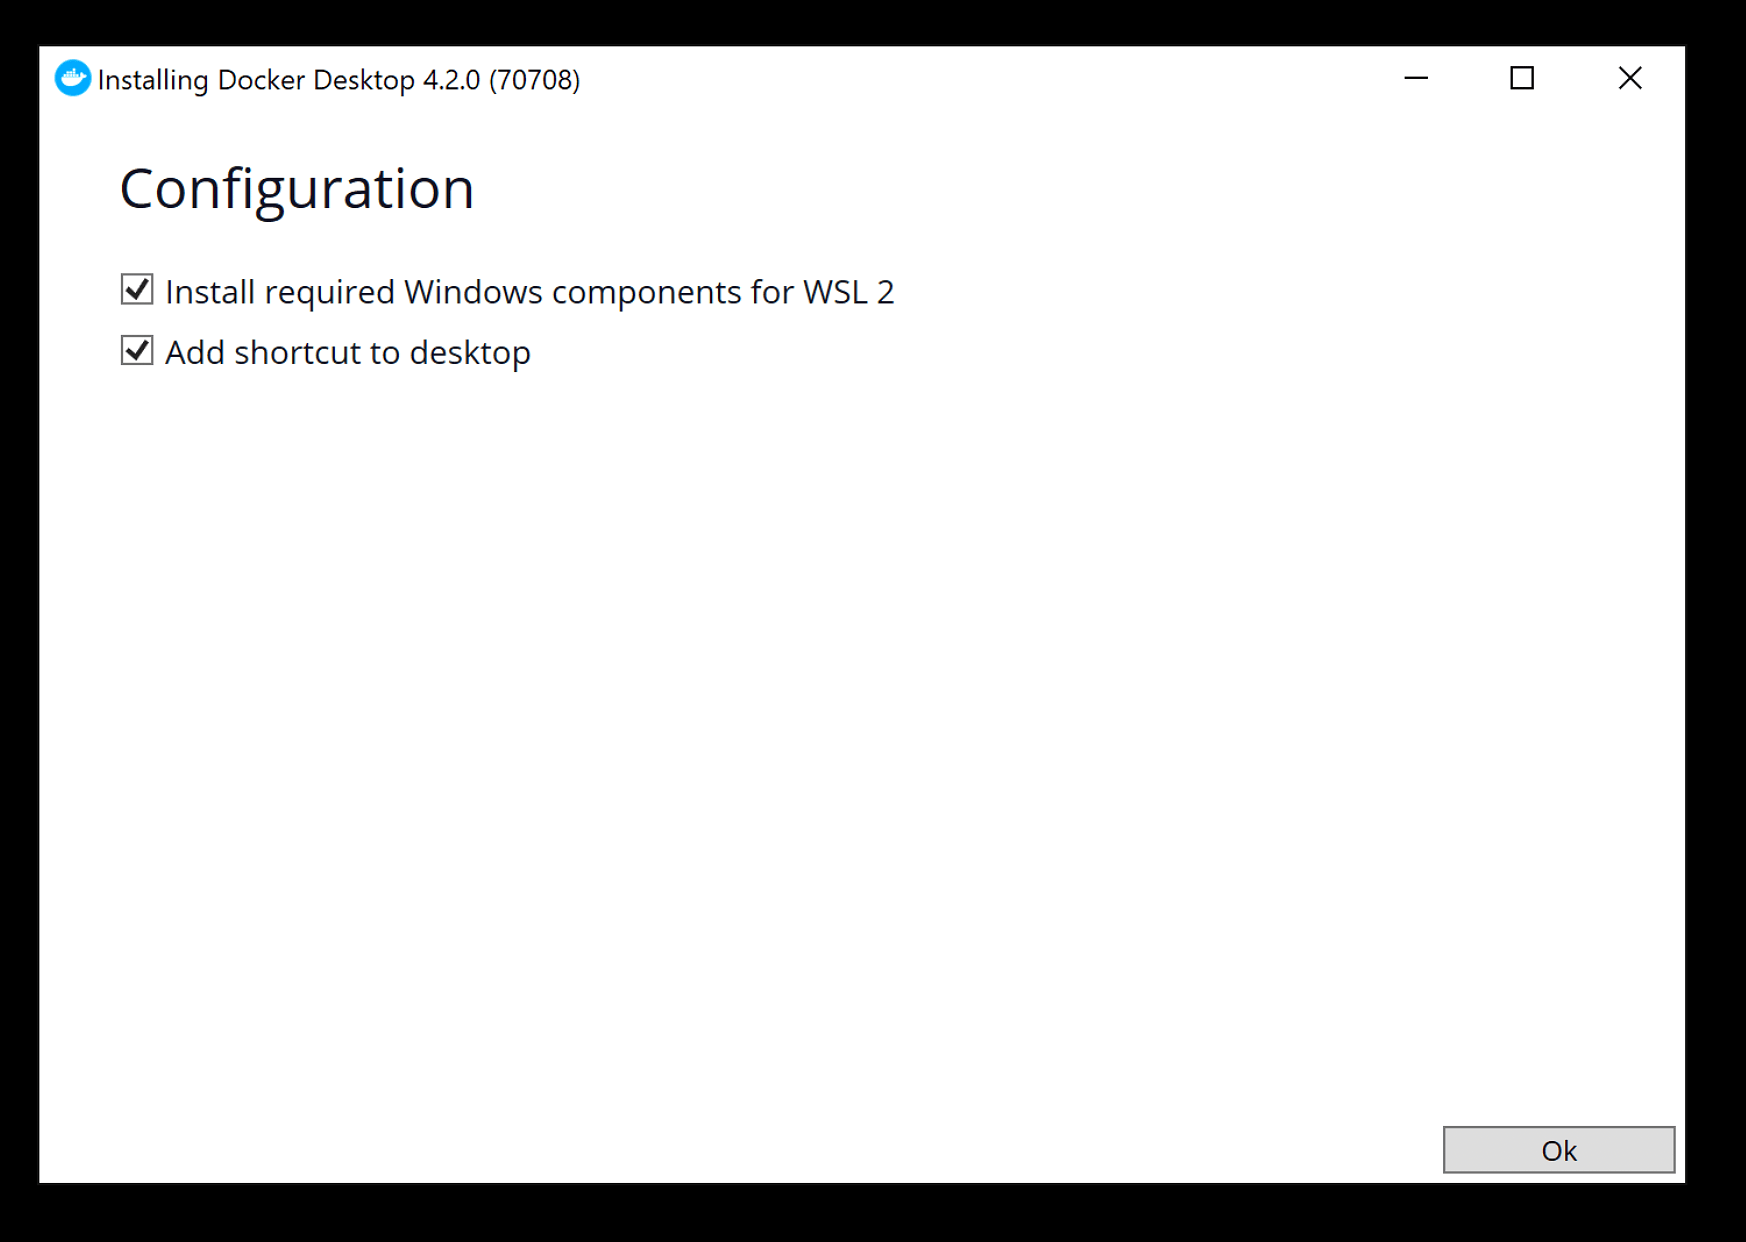
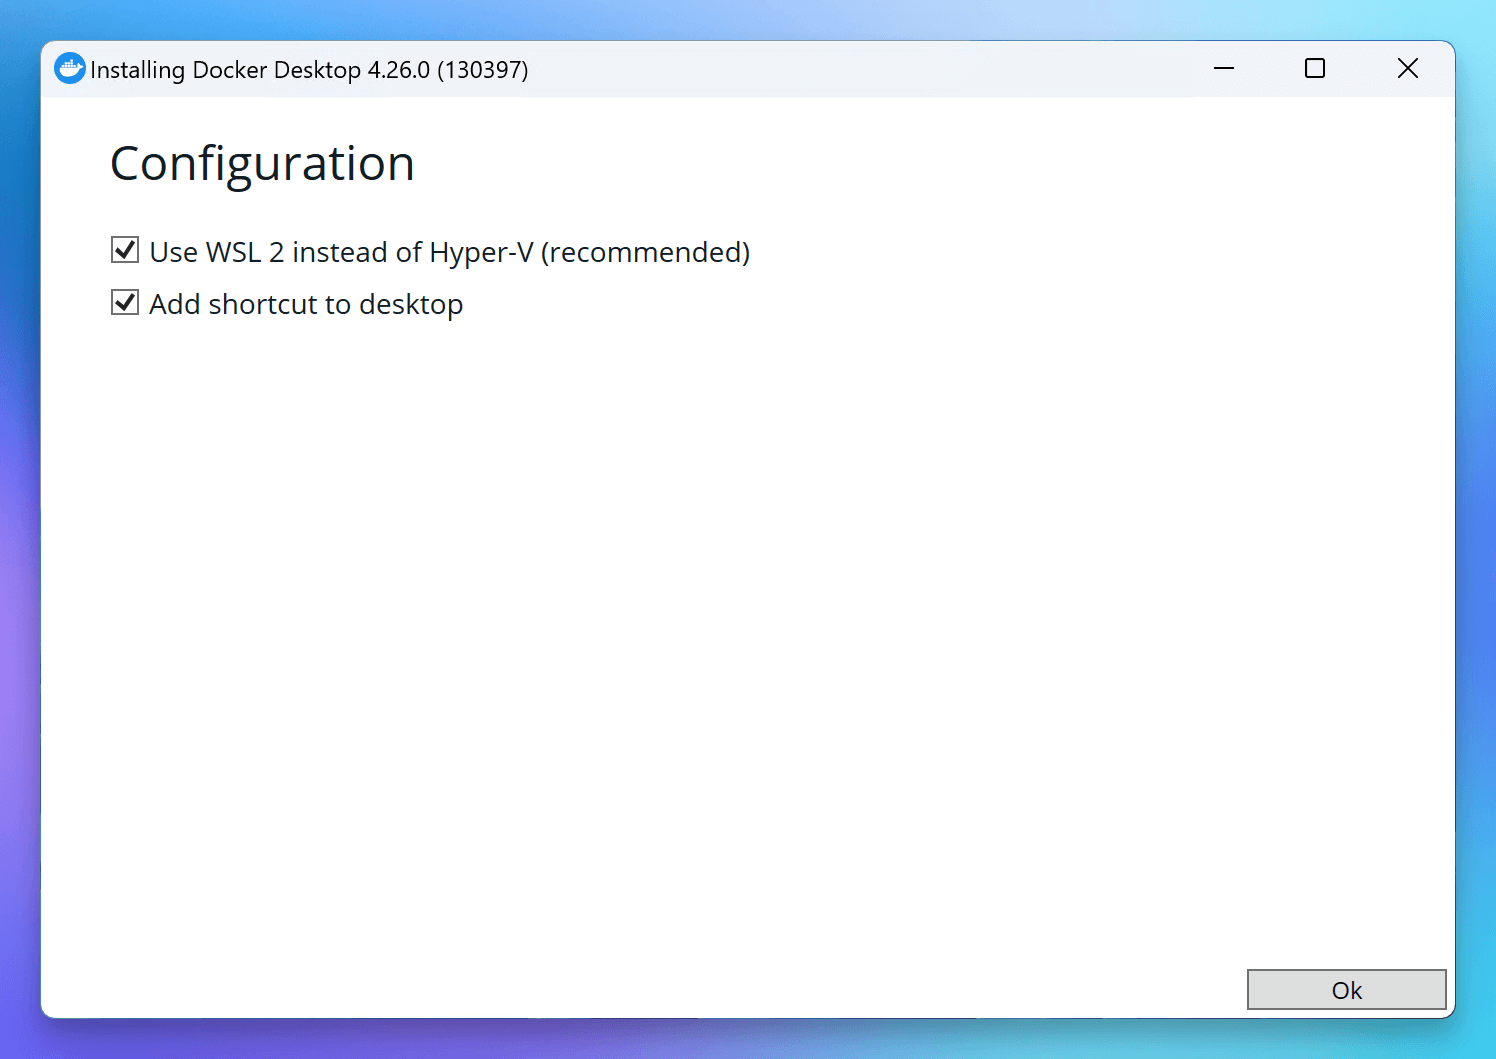
Updated Windows documentation

Changed region(s): [[0.0, 0.0, 1.0, 1.0], [0.0615, 0.2181, 0.5227, 0.3116], [0.0615, 0.1246, 0.2767, 0.187]]

diff --git a/docs/content/docs/2.installation/2.install-windows.md b/docs/content/docs/2.installation/2.install-windows.md
@@ -10,46 +10,47 @@ layout: docs
 ::
 
 ## Pre-requisites
-Windows requires a "subsystem Linux" distribution which takes some configuring on a brand new machine. Once configured, Linux will be running as a virtual machine on your Windows computer, allowing you to run Docker.
+Windows requires a "Linux Subsystem" to run Docker. We will break this into two parts:
 
-You'll need the following services configured on your Windows machine:
-* Windows Subsystem Linux
-* Docker Desktop
+1. Install Windows Subsystem Linux (v2)
+2. Install Docker Desktop
 
-## Prepare your Windows Machine
+#### Optional software
+You may want to consider installing this software to improve your development experience (this is what we use).
+* [Windows Terminal](https://docs.microsoft.com/en-us/windows/terminal/install) - This is a great terminal application that will give you tab support for your CLIs.
 
-### Install The Kernel Update
-
-To prevent errors with Docker Desktop, be sure to have the latest Linux Kernel update installed. [Refer to the documentation for download →](https://docs.microsoft.com/en-us/windows/wsl/install-manual#step-4---download-the-linux-kernel-update-package)
-
-If you do not install this update, you will see this error on launch of Docker Desktop.
-
-![WSL 2 Installation Warning](/images/docs/windows/wsl-incomplete.png)
-
-### Install Windows Subsystem Linux (WSL)
-
-::note
-The Official documentation for installing WSL can be found here: [https://docs.microsoft.com/en-us/windows/wsl/install](https://docs.microsoft.com/en-us/windows/wsl/install)
-::
-
-We prefer Ubuntu as our distribution. So if you're happy with that recommendation, run this command in PowerShell as administrator to install WSL.
-
-
-::note
-Make sure to right click on the PowerShell icon and click <b>Run as Administrator.</b>
-::
+## Install Windows Subsystem Linux (WSL)
+We can follow the principles discussed in the [official WSL2 documentation](https://docs.microsoft.com/en-us/windows/wsl/install) and prepare our machine to run "Windows Subsystem Linux v2" (WSL2). We prefer Ubuntu as our distribution. So if you're happy with that recommendation, run this command in PowerShell as administrator to install WSL2.
 
 ::code-panel
 ---
 label: Install and use Ubuntu as your Windows Subsystem Linux distro
 ---
 ```bash
-# Add this to `~/.zshrc` or `~/.bash_profile`
-export PATH="$HOME/.spin/bin:$PATH"
+wsl --install -d ubuntu
 ```
 ::
 
+::note
+A restart may be required.
+::
+
 ![WSL Install Command](/images/docs/windows/wsl-install.png)
+
+After a reboot, you may be prompted to create a username and password for your new Ubuntu installation. This is a separate user from your Windows user.
+
+![WSL Create Username and Password](/images/docs/windows/wsl-configure.png)
+
+Once configured, you can confirm is working by opening a new PowerShell window and running:
+
+::code-panel
+---
+label: Enter the Ubuntu shell
+---
+```bash
+wsl
+```
+::
 
 ## Install Docker Desktop
 
@@ -61,17 +62,25 @@ If prompted, leave the default options checked.
 
 ![Docker Configuration](/images/docs/windows/docker-desktop-configuration.png)
 
+::note
+Another restart may be required.
+::
+
+After the installation completes, you may be prompted to reboot your machine. If so, go ahead and do that.
+
+![Docker Reboot](/images/docs/windows/docker-reboot.png)
+
 ### Accept the terms
 
-Make sure you open "Docker Desktop" (double click the Docker Desktop icon from your Desktop) after install and accept the terms.
+Once your computer comes back online, click on the **Docker Desktop** icon. The application will initialize and be sure to accept the terms.
 
 ![Accept Docker EULA](/images/docs/windows/docker-accept-eula.png)
 
-# Install Windows Terminal (Optional)
+### Configuring your Docker Account
 
-Although this application is still in preview, you may want to consider installing this for your best experience. You'll get tab support for CLIs and a few other bonus features.
+You will be prompted to login to your Docker account. If you don't have one, you can create one for free. For most cases, you can use Docker without creating an account.
 
-You can install it from the Microsoft Store or from their Github page:<br /> [Download Windows Terminal →](https://docs.microsoft.com/en-us/windows/terminal/install)
+![Docker Login](/images/docs/windows/docker-login.png)
 
 # Verify everything is working
 

diff --git a/docs/content/docs/3.guide/1.create-a-new-laravel-project.md b/docs/content/docs/3.guide/1.create-a-new-laravel-project.md
@@ -1,0 +1,24 @@
+---
+head.title: 'Create a new Laravel Project - Spin by Server Side Up'
+title: 'Create A New Laravel Project'
+description: 'Learn how to create a new Laravel project with Spin.'
+layout: docs
+---
+
+# Create a new Laravel project
+::lead-p
+Getting up and running with a new Laravel project with Spin is easy. It's recommended to install Spin globally so you can easily create new projects. Follow the installation instructions for [macOS](/docs/installation/install-macos/), [Linux](/docs/installation/install-linux), or [Windows](/docs/installation/install-windows) before continuing.
+::
+
+## Spin New Laravel Project
+We created a command called `spin new`, which will create a new Laravel project for you.
+
+::code-panel
+---
+label: "Create a new Laravel project called \"spin-demo\""
+---
+```bash
+spin new laravel spin-demo
+```
+::
+This will create a project in your current directory called `spin-demo`. You can also specify a path to create the project in a different directory.
